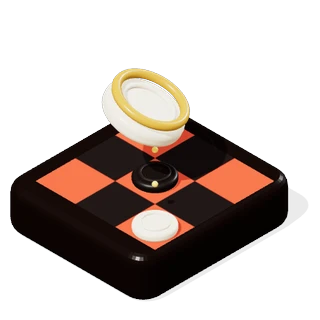
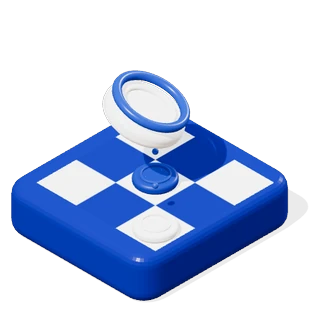
ウゴルキ: トップと大百科のアイコンをグジェリの青白に
Claude-Session: https://claude.ai/code/session_01EiWRAXRDR9Cr8hPCoM1dCx

diff --git a/atlas/icons3d.js b/atlas/icons3d.js
@@ -291,16 +291,16 @@
       k.scale.setScalar(1.45); g.add(at(k, .3, 2.0, -.3, .45, 0, -.3));
       return g;
     },
-    ugolki() {   // a corner of a Khokhloma board (cinnabar / black lacquer, gold side band); a lacquered ivory piece hops over a black one into the house
-      const g = boardChunk(3, 3.6, gridMat('ug', '#c4432a', '#c4432a', 3, { check: '#1d1311' }), C(0x1a0f0c, { roughness: .28 }));
-      const band = rbox(3.66, .09, 3.66, .32, gloss(0xd9a441)); band.position.y = .16; g.add(band);
+    ugolki() {   // a corner of a Gzhel board (white porcelain / cobalt, cobalt side band); a white porcelain piece hops over a cobalt one into the house
+      const g = boardChunk(3, 3.6, gridMat('ugz2', '#f3f6fd', '#f3f6fd', 3, { check: '#163a94' }), C(0x1d3f9a, { roughness: .25 }));
+      const band = rbox(3.66, .09, 3.66, .32, gloss(0xf3f6fd)); band.position.y = .16; g.add(band);
       const S = 3.3 / 3, p = i => -1.65 + S * (i + .5);
-      const ivory = s => { const k = checker(0xf3e7cc, s); const r = mesh(new T.TorusGeometry(.38 * s, .05 * s, 10, 40), gloss(0xc9962e)); r.rotation.x = Math.PI / 2; r.position.y = .275 * s; k.add(r); return k; };
-      const black = s => { const k = checker(0x1d1513, s); const r = mesh(new T.TorusGeometry(.38 * s, .05 * s, 10, 40), gloss(0xc2352a)); r.rotation.x = Math.PI / 2; r.position.y = .275 * s; k.add(r); return k; };
-      g.add(at(ivory(.72), p(0), .5, p(2))); g.add(at(black(.72), p(1), .5, p(1))); g.add(at(ivory(.72), p(2), .5, p(0)));
-      // the big piece mid-jump over the black one, a dotted gold arc under it
-      g.add(at(ivory(1.35), p(1) - .15, 1.85, p(1) - .25, .35, 0, -.25));
-      for (let i = 0; i < 5; i++) { const t = (i + 1) / 6, d = ball(.06, gloss(0xf2c94c)); d.position.set(p(0) + (p(2) - p(0)) * t, .62 + Math.sin(t * Math.PI) * 1.1, p(2) + (p(0) - p(2)) * t); g.add(d); }
+      const white = s => { const k = checker(0xf7f9ff, s); const r = mesh(new T.TorusGeometry(.38 * s, .05 * s, 10, 40), gloss(0x2a56b8)); r.rotation.x = Math.PI / 2; r.position.y = .275 * s; k.add(r); return k; };
+      const blue = s => { const k = checker(0x1f4aa8, s); const r = mesh(new T.TorusGeometry(.38 * s, .05 * s, 10, 40), gloss(0xe9eefb)); r.rotation.x = Math.PI / 2; r.position.y = .275 * s; k.add(r); return k; };
+      g.add(at(white(.72), p(0), .5, p(2))); g.add(at(blue(.72), p(1), .5, p(1))); g.add(at(white(.72), p(2), .5, p(0)));
+      // the big piece mid-jump over the cobalt one, a dotted cobalt arc under it
+      g.add(at(white(1.35), p(1) - .15, 1.85, p(1) - .25, .35, 0, -.25));
+      for (let i = 0; i < 5; i++) { const t = (i + 1) / 6, d = ball(.06, gloss(0x2a56b8)); d.position.set(p(0) + (p(2) - p(0)) * t, .62 + Math.sin(t * Math.PI) * 1.1, p(2) + (p(0) - p(2)) * t); g.add(d); }
       return g;
     },
     tafl() {   // a corner of the hnefatafl board: the king steps onto the knotted corner square, attackers too late

diff --git a/index.html b/index.html
@@ -803,7 +803,7 @@ const GAMES = [
   { id:'xiangqi',    href:'./xiangqi/',       thumb:'images/xiangqi.webp',     icon:'images/icons/xiangqi.svg',     cat:'chess',     kind:'BOARD GAME', key:'xq',   isNew:true,  tags:['classic','ai','online','rated','daily','lessons','puzzles','openings','mobile'], facts:{ ai:20, lessons:16, puzzles:543, players:'1–2' } },
   { id:'tafl',       href:'./tafl/',          thumb:'images/tafl.webp',        icon:'images/icons/tafl.svg',        cat:'chess',     kind:'BOARD GAME', key:'tf',   isNew:true,  tags:['classic','ai','online','rated','daily','lessons','puzzles','openings','variants','mobile'], facts:{ ai:20, lessons:16, puzzles:390, players:'1–2' } },
   { id:'checkers',   href:'./checkers/',       thumb:'images/checkers.webp?v=3',    icon:'images/icons/checkers.svg',    cat:'chess',     kind:'BOARD GAME', key:'ck',   isNew:true,  tags:['classic','ai','online','rated','daily','lessons','puzzles','openings','mobile'], facts:{ ai:20, lessons:13, puzzles:500, players:'1–2' } },
-  { id:'ugolki',     href:'./ugolki/',        thumb:'images/ugolki.webp?v=2',      icon:'images/icons/ugolki.svg',      cat:'chess',     kind:'BOARD GAME', key:'ug',   isNew:true,  tags:['classic','ai','rated','daily','lessons','puzzles','openings','variants','mobile'], facts:{ ai:20, lessons:11, puzzles:122, players:'1–2' } },
+  { id:'ugolki',     href:'./ugolki/',        thumb:'images/ugolki.webp?v=2',      icon:'images/icons/ugolki.svg?v=2',      cat:'chess',     kind:'BOARD GAME', key:'ug',   isNew:true,  tags:['classic','ai','rated','daily','lessons','puzzles','openings','variants','mobile'], facts:{ ai:20, lessons:11, puzzles:122, players:'1–2' } },
   { id:'fanorona',   href:'./fanorona/',      thumb:'images/fanorona.webp?v=3',    icon:'images/icons/fanorona.svg?v=2',    cat:'chess',     kind:'BOARD GAME', key:'fn',   isNew:true,  tags:['classic','ai','online','rated','daily','lessons','puzzles','openings','variants','mobile'], facts:{ ai:20, lessons:12, puzzles:200, players:'1–2' } },
   { id:'alquerque',  href:'./alquerque/',     thumb:'images/alquerque.webp?v=2',   icon:'images/icons/alquerque.svg',   cat:'chess',     kind:'BOARD GAME', key:'aq',   isNew:true,  tags:['classic','ai','online','rated','mobile'], facts:{ ai:20, players:'1–2' } },
   { id:'sudoku',     href:'./sudoku/',        thumb:'images/sudoku.webp?v=2', icon:'images/icons/sudoku.svg?v=2', cat:'puzzle', kind:'PUZZLE', key:'sd', isNew:true, tags:['daily','puzzles','netrank','mobile'], facts:{ puzzles:1300, players:'1' } },

diff --git a/ugolki/app.js b/ugolki/app.js
@@ -1012,7 +1012,7 @@ function tourPage(id, spec, o) {
 const tourRead = (id, html) => ({ id, title: () => t('tr.' + id + '.t'), body: () => t('tr.' + id + '.b').split('\n').map(x => `<p>${x}</p>`).join(''), html });
 const tourPic = (spec, o) => { const keep = E.rule; E.setRule('c33'); const h = `<div class="tour-pic">${miniSVG(spec, Object.assign({ cls: '', rule: 'c33' }, o || {}))}</div>`; E.setRule(keep); return h; };
 // page 1: what the game is (history / how to win / culture), read only — common spec
-const introPage = () => ({ id: 'intro', title: () => t('intro.t'), body: '', html: () => RuleTour.intro({ lang: LANG, img: '../images/atlas/ugolki.webp', origin: t('intro.origin'), players: t('intro.players'), time: t('intro.time'), history: t('intro.hist'), win: t('intro.win'), culture: t('intro.cult') }) });
+const introPage = () => ({ id: 'intro', title: () => t('intro.t'), body: '', html: () => RuleTour.intro({ lang: LANG, img: '../images/atlas/ugolki.webp?v=2', origin: t('intro.origin'), players: t('intro.players'), time: t('intro.time'), history: t('intro.hist'), win: t('intro.win'), culture: t('intro.cult') }) });
 const W_HOME = rect(0, 2, 1, 3), B_HOME = rect(5, 7, 6, 8);
 const TOUR_PAGES = [
   introPage(),

diff --git a/atlas/app.js b/atlas/app.js
@@ -104,7 +104,7 @@
 
   /* ---------- common renderers ---------- */
   const R3 = new Set(['reversi', 'shogi', 'chess', 'gomoku', 'dots', 'connect4', 'mancala', 'backgammon', 'morris', 'sudoku', 'speedsudoku', 'checkers', 'samegame', 'go', 'hex', 'tafl', 'xiangqi', 'jailbreak', 'solitaire', 'poker', 'baccarat', 'blackjack', 'fanorona', 'alquerque', 'ugolki']);   // images/atlas/<id>.webp exists
-  const artSrc = g => R3.has(g.id) ? `../images/atlas/${g.id}.webp?v=${g.id === 'alquerque' ? 6 : 5}` : `../${g.icon}`;
+  const artSrc = g => R3.has(g.id) ? `../images/atlas/${g.id}.webp?v=${({ alquerque: 6, ugolki: 6 })[g.id] || 5}` : `../${g.icon}`;
   const artImg = (g, extra = '') => `<img src="${artSrc(g)}" alt="" loading="lazy" decoding="async"${R3.has(g.id) ? '' : ' class="flat"'}${extra}>`;
   const g3 = g => `<span class="g3" style="--c:${g.color}">${artImg(g)}</span>`;
   const gno = g => 'No.' + String(A_.GAMES.indexOf(g) + 1).padStart(2, '0');

diff --git a/atlas/index.html b/atlas/index.html
@@ -1015,7 +1015,7 @@ h2.h::before{content:'';width:10px;height:22px;border-radius:5px;background:var(
 <script src="models/connect4.js?v=3"></script>
 <script src="models/mancala.js?v=3"></script>
 <script src="models/dots.js?v=3"></script>
-<script src="icons3d.js?v=16"></script>
+<script src="icons3d.js?v=17"></script>
 <script src="games/reversi.js?v=11"></script>
 <script src="games/shogi-play.js?v=9"></script>
 <script src="games/shogi.js?v=11"></script>
@@ -1047,6 +1047,6 @@ h2.h::before{content:'';width:10px;height:22px;border-radius:5px;background:var(
 <script src="gacha3d.js?v=7"></script>
 <script src="../shared/resign.js?v=2"></script>
 <script src="../shared/tick.js?v=2"></script>
-<script src="app.js?v=134"></script>
+<script src="app.js?v=135"></script>
 </body>
 </html>

diff --git a/ugolki/index.html b/ugolki/index.html
@@ -1354,7 +1354,7 @@ html:is([data-bd=gzhel],[data-bd=birch]) .reserve .rsv-plate .rsv-l b{color:#142
 <script src="coach.js?v=1"></script>
 <script src="coach-i18n.js?v=1"></script>
 <script src="../shared/export.js?v=7"></script>
-<script src="app.js?v=3"></script>
+<script src="app.js?v=4"></script>
 <script src="online-ui.js?v=3sec1l9ck1p"></script>
 <!-- World Board Game Atlas: shared account sync -->
 <script src="../shared/atlas.js?v=20261104ug4" defer></script>
